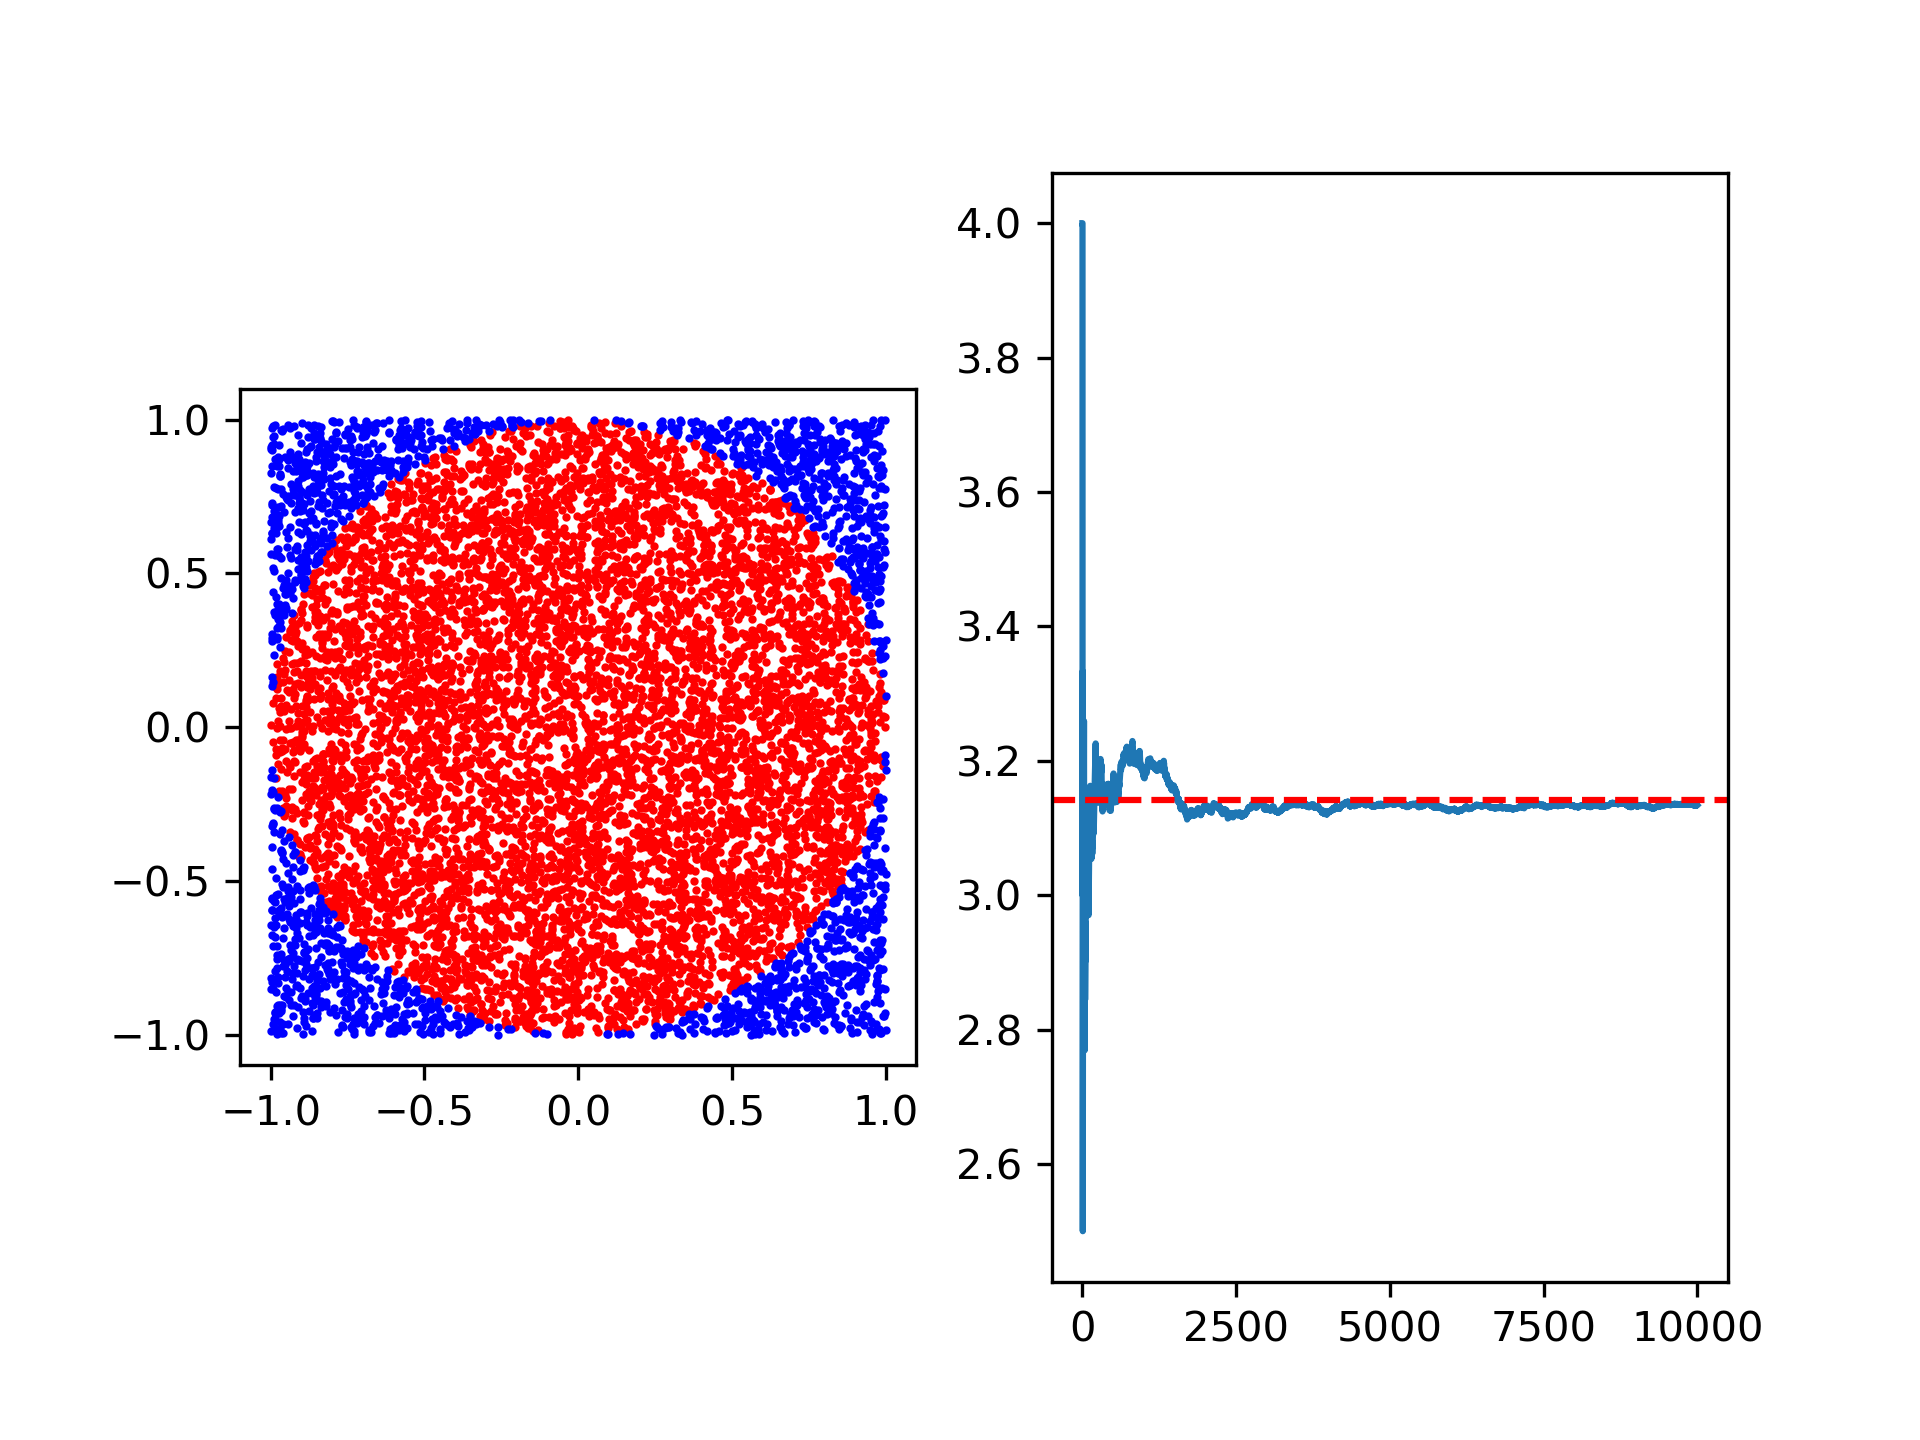
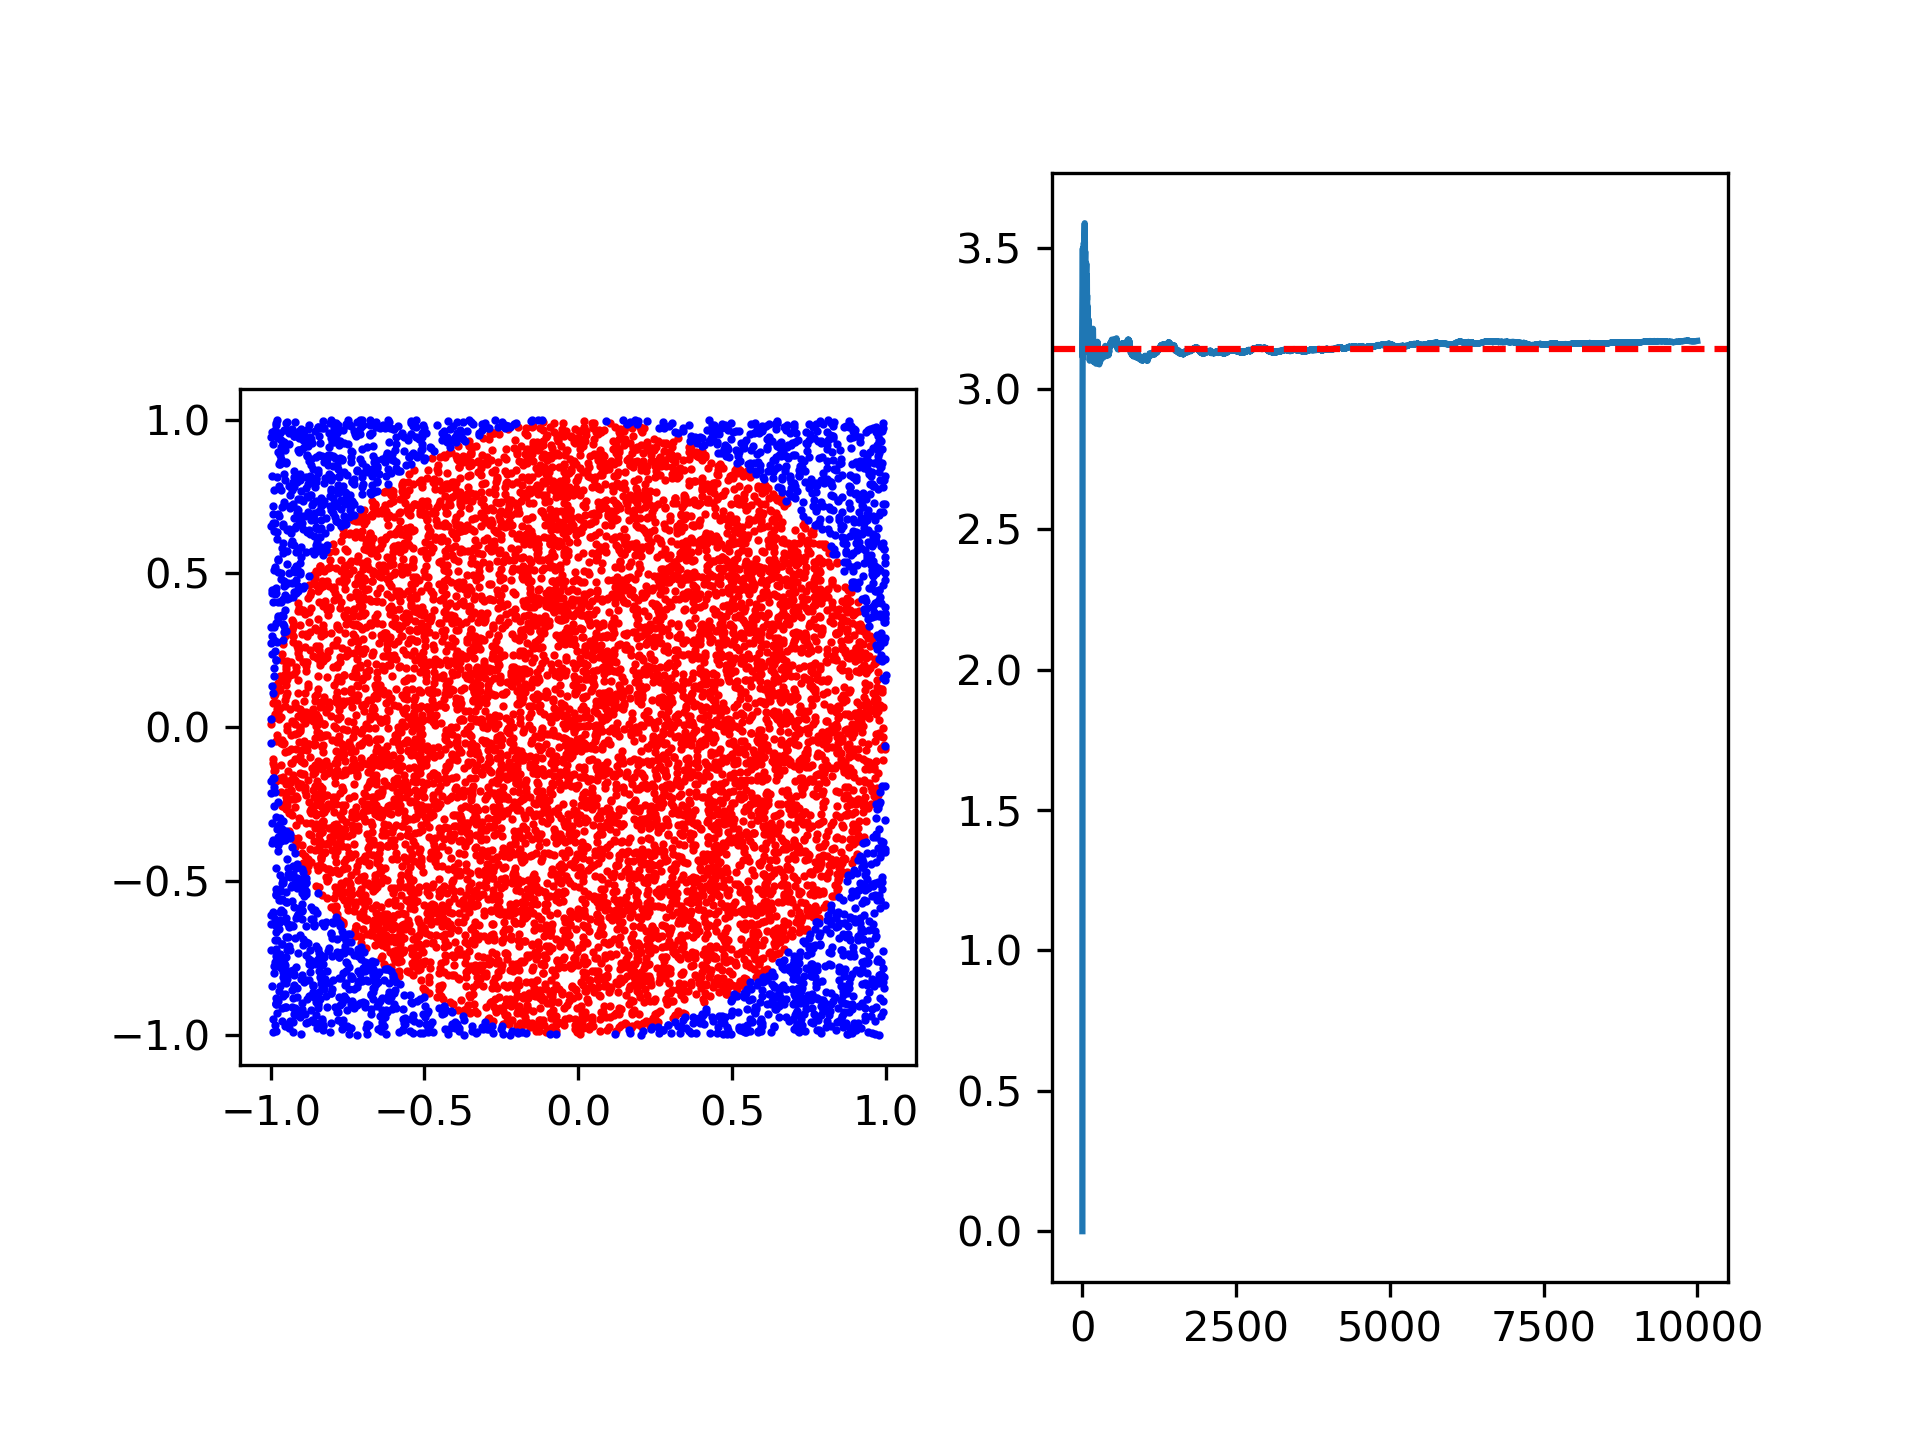
Completed the README

diff --git a/README.md b/README.md
@@ -1,0 +1,15 @@
+# Monte Carlo pi estimation
+
+## Overview 
+
+This project finds an estimation for pi through a geometric method. In this project I aimed to introduce myself to Monte Carlo simulations, vectorisation using NumPy, and Matplotlib plotting. This simulation demonstrates my learning of the techniques outlined above.
+
+## Theory
+
+To find an estimation for pi the simulation generates N points in a 2x2 square, by randomly picking x and y values between -1 and 1. We can then transcribe a circle of radius 1 centred at the origin onto this plot. As the area of this circle is given  pi*r^2, and the area of the square is 4*r, we find that the proportion of points in the circle provides an estimation for pi/4.
+
+![Simulation diagram and convergence plot](pi_estimation.png)
+
+## Skills Demonstrated
+
+Through this project, I was able to demonstrate a more advanced proficiency with NumPy arrays that my previous level. I also learnt the basics of Boolean masking 
